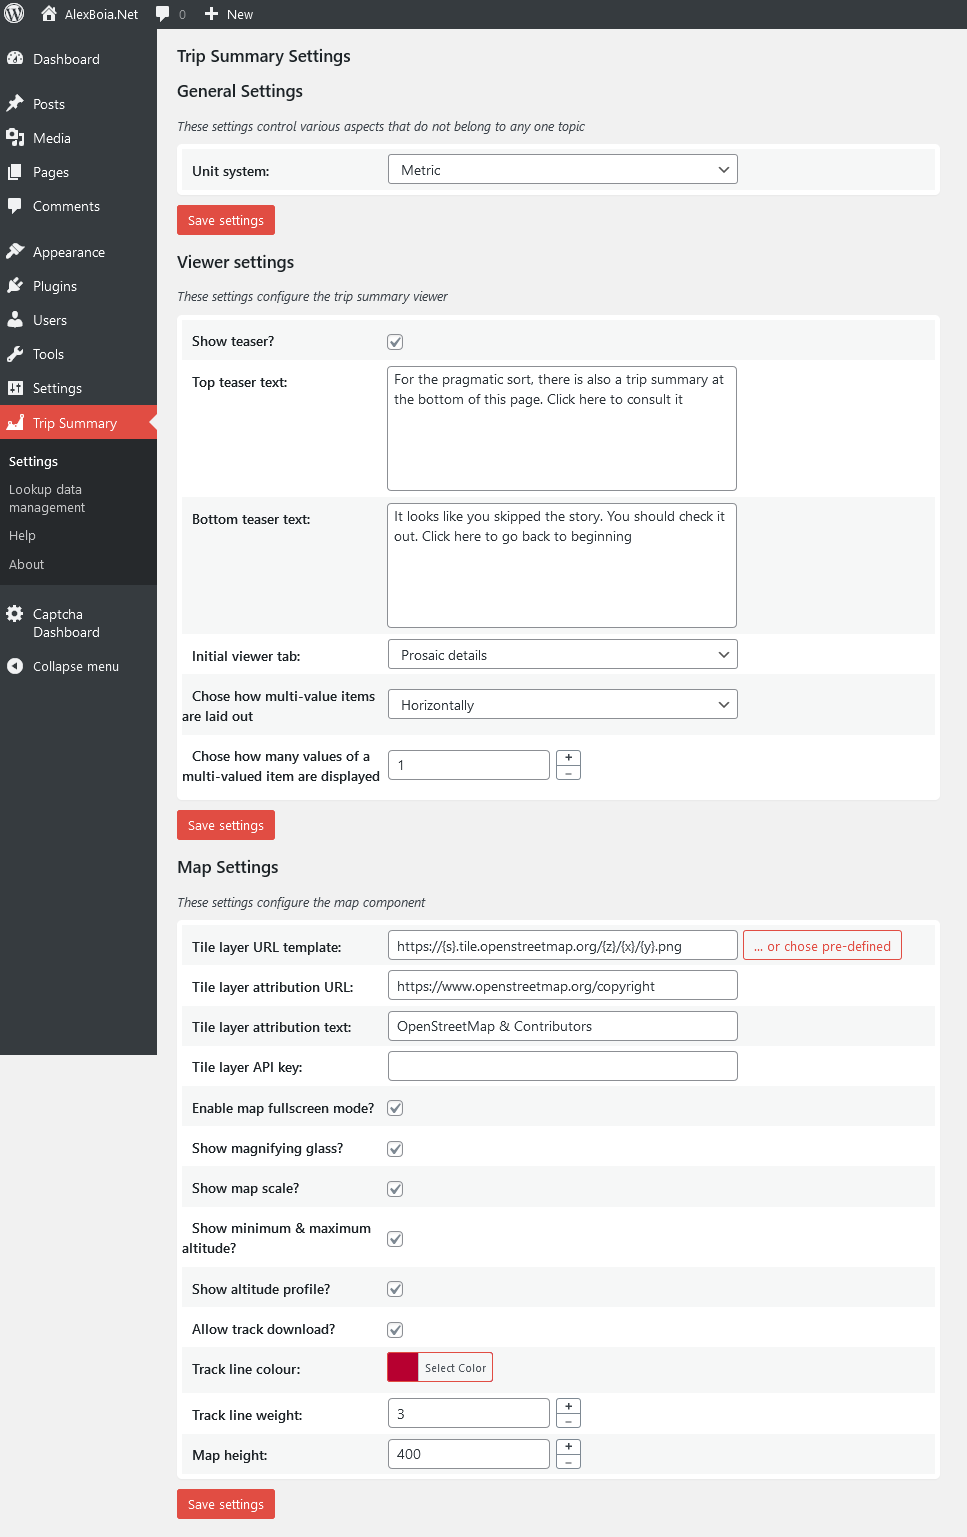
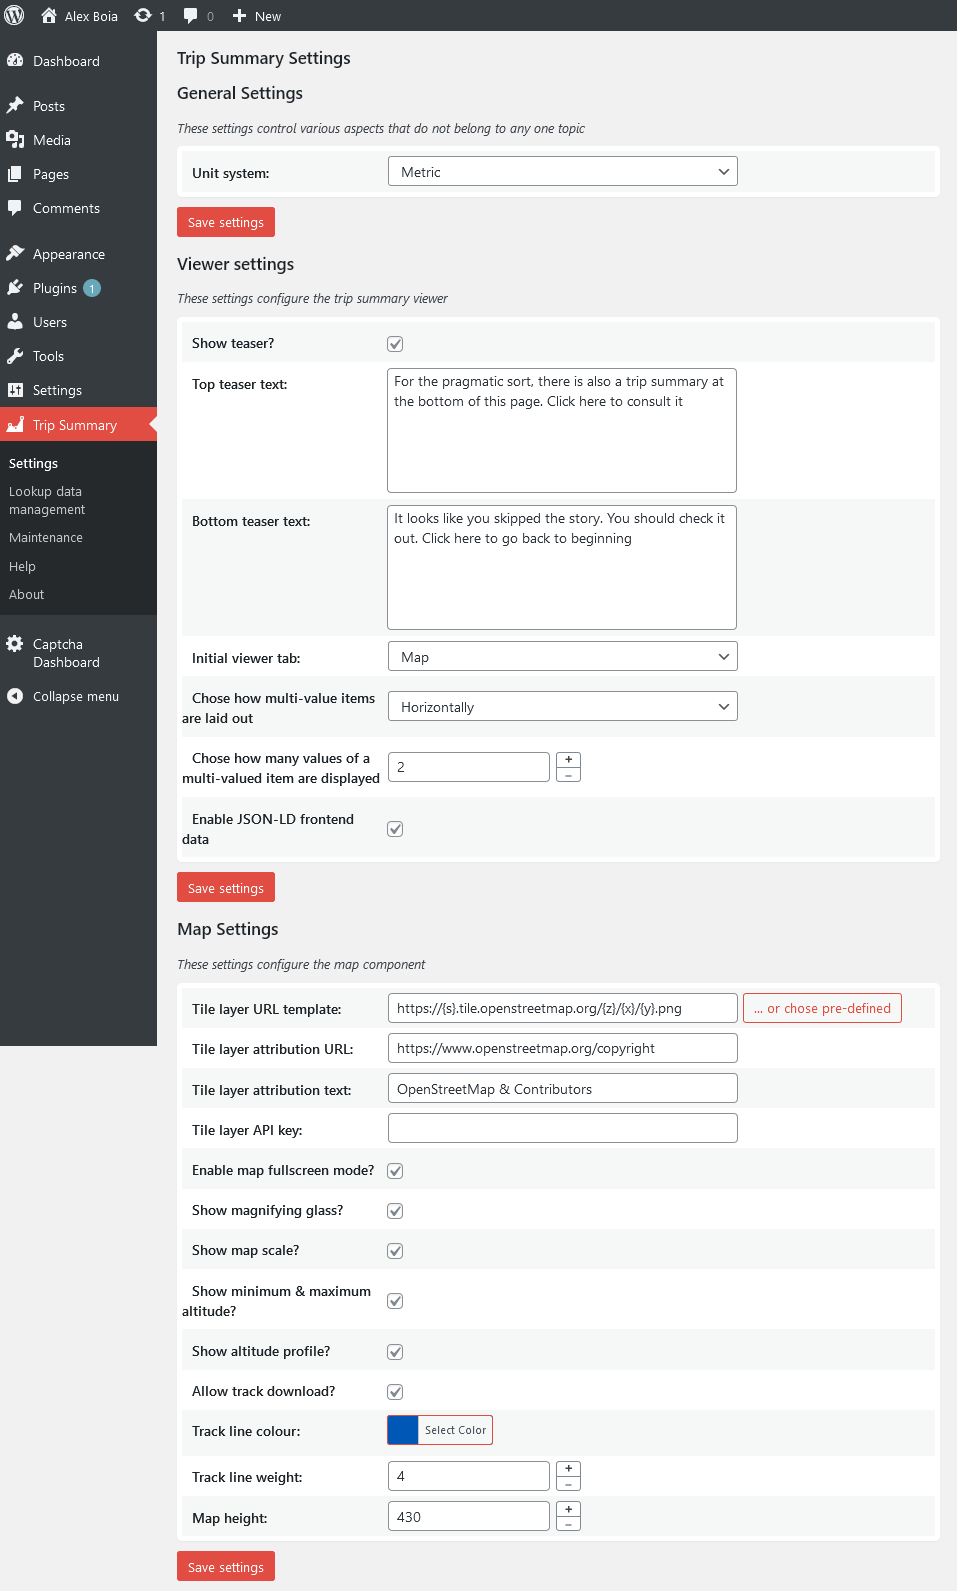
Updated help for JSON-LD setting

diff --git a/views/wpts-jsonld-frontend-data.php b/views/wpts-jsonld-frontend-data.php
@@ -1,3 +1,36 @@
+<?php
+/**
+ * Copyright (c) 2014-2023 Alexandru Boia
+ *
+ * Redistribution and use in source and binary forms, with or without modification, 
+ * are permitted provided that the following conditions are met:
+ * 
+ *	1. Redistributions of source code must retain the above copyright notice, 
+ *		this list of conditions and the following disclaimer.
+ *
+ * 	2. Redistributions in binary form must reproduce the above copyright notice, 
+ *		this list of conditions and the following disclaimer in the documentation 
+ *		and/or other materials provided with the distribution.
+ *
+ *	3. Neither the name of the copyright holder nor the names of its contributors 
+ *		may be used to endorse or promote products derived from this software without 
+ *		specific prior written permission.
+ *
+ * THIS SOFTWARE IS PROVIDED BY THE COPYRIGHT HOLDERS AND CONTRIBUTORS "AS IS" 
+ * AND ANY EXPRESS OR IMPLIED WARRANTIES, INCLUDING, BUT NOT LIMITED TO, 
+ * THE IMPLIED WARRANTIES OF MERCHANTABILITY AND FITNESS FOR A PARTICULAR PURPOSE ARE DISCLAIMED. 
+ * IN NO EVENT SHALL THE COPYRIGHT HOLDER OR CONTRIBUTORS BE LIABLE FOR ANY 
+ * DIRECT, INDIRECT, INCIDENTAL, SPECIAL, EXEMPLARY, OR CONSEQUENTIAL DAMAGES 
+ * (INCLUDING, BUT NOT LIMITED TO, PROCUREMENT OF SUBSTITUTE GOODS OR SERVICES; 
+ * LOSS OF USE, DATA, OR PROFITS; OR BUSINESS INTERRUPTION) 
+ * HOWEVER CAUSED AND ON ANY THEORY OF LIABILITY, WHETHER IN CONTRACT, STRICT LIABILITY, 
+ * OR TORT (INCLUDING NEGLIGENCE OR OTHERWISE) 
+ * ARISING IN ANY WAY OUT OF THE USE OF THIS SOFTWARE, EVEN IF ADVISED 
+ * OF THE POSSIBILITY OF SUCH DAMAGE.
+ */
+	defined('ABP01_LOADED') or die;
+?>
+
 <script type="application/ld+json">
 {
 	"@context": "https://schema.org",

diff --git a/lib/SettingsValuesDataProvider.php b/lib/SettingsValuesDataProvider.php
@@ -1,0 +1,25 @@
+<?php
+class Abp01_SettingsValuesDataProvider {
+	public function getAvailablePredefinedTileLayers() {
+		$allowedPredefinedTileLayersInfos = array();
+		$predefinedTileLayers = Abp01_Settings_PredefinedTileLayer::getPredefinedTileLayers();
+		
+		foreach ($predefinedTileLayers as $id => $predefinedLayer) {
+			$allowedPredefinedTileLayersInfos[$id] = $predefinedLayer->asPlainObject();
+		}
+
+		return $allowedPredefinedTileLayersInfos;
+	} 
+
+	public function getAvailableUnitSystems() {
+		return Abp01_UnitSystem::getAvailableUnitSystems();
+	}
+
+	public function getAvailableViewerTabs() {
+		return Abp01_Viewer::getAvailableTabs();
+	}
+
+	public function getAvailableItemLayouts() {
+		return Abp01_Viewer::getAvailableItemLayouts();
+	}
+}

diff --git a/lib/Settings.php b/lib/Settings.php
@@ -546,7 +546,7 @@ class Abp01_Settings {
 	}
 
 	public function getEnableJsonLdFrontenData() {
-		return $this->_getOption(self::OPT_JSONLD_ENABLED, 'boolean', true);
+		return $this->_getOption(self::OPT_JSONLD_ENABLED, 'boolean', false);
 	}
 
 	public function getMinimumAllowedMapHeight() {

diff --git a/help/src/ro_RO/index.md b/help/src/ro_RO/index.md
@@ -83,9 +83,9 @@ Cu alte cuvinte, vă puteți documenta (doar) aceste trei tipuri de plimbări.
 <div class="abp01-help-section" markdown="1">
 Pentru a rula acest modul, aveți nevoie de următoarele:
 
-- PHP versiunea 5.6.2 sau mai recenta;
+- PHP versiunea 7.4.0 sau mai recenta;
 - MySQL versiunea 5.7 sau mai recenta (cu suport pentru date GIS);
-- WordPress 5.0 sau mai recenta;
+- WordPress 6.0.0 sau mai recenta;
 - extensia PHP libxml;
 - extensia PHP SimpleXml;
 - extensia PHP mysqli;
@@ -301,6 +301,16 @@ Textul teaser-ului afișat imediat sub caseta de sumar. Există deja o valoare p
 
 Acest câmp permite controlarea filei încărcate inițial în viewer-ul din fron-end atunci când utilizatorul deschide pagina unui post.
 Valoarea implicită este: Hartă & Track GPS.
+
+#### Alege câte valori sunt afișate pentru itemii cu mai multe valori
+
+Acest câmp permite stabilirea numărului de valori care sunt afișate pentru câmpurile multi-valoare.
+Dacă un astfel de câmp are mai multe valori decât numărul stabilit aici, atunci valorile rămase sunt ascunse și un buton este afișat pentru arătarea acestor valori.
+
+#### Insearază date JSON-LD în front-end
+
+Dacă această opțiune este activată, plug-in-ul inserează o structură de date JSON-LD în pagina de detalii a post-ului, 
+dacă acelui post i-a fost atașat un track. 
 
 #### Șablonul URL-ului sursei de tile-uri de hartă
 

diff --git a/help/src/fr_FR/index.md b/help/src/fr_FR/index.md
@@ -89,9 +89,9 @@ Selon les différentes fonctions exercées par les zones du module, nous pouvons
 <div class="abp01-help-section" markdown="1">
 Pour exécuter ce module, vous avez besoin des éléments suivants:
 
-- PHP version 7.0.2 ou ultérieure;
+- PHP version 7.4.0 ou ultérieure;
 - MySQL version 5.7 ou ultérieure (avec prise en charge des données SIG);
-- WordPress 5.3.0 ou version ultérieure;
+- WordPress 6.0.0 ou version ultérieure;
 - Extension PHP libxml;
 - Extension PHP SimpleXml;
 - extension PHP mysqli;
@@ -319,6 +319,11 @@ Ce champ permet de spécifier comment plusieurs valeurs d'un même élément son
 
 Ce champ permet de définir le nombre de valeurs affichées pour les éléments qui ont plusieurs valeurs. 
 Si un élément a plus de valeurs que ce qui est défini dans ce champ, ils sont masqués et un bouton `(afficher)` s'affiche.
+
+#### Activer les données frontales JSON-LD
+
+S'il est activé, le plug-in insère des données JSON-LD structurées dans la page de détails de la publication et de la page,
+s'il y a des données de suivi attachées à ce message ou à cette page.
 
 #### Modèle d'URL source de tuile de carte
 

diff --git a/help/src/en_US/index.md b/help/src/en_US/index.md
@@ -89,9 +89,9 @@ Depending on the various functions performed by various plug-in components, we c
 <div class="abp01-help-section" markdown="1">
 To run this module, the following technical requirements must be met:
 
-- PHP version 7.0.2 or greater;
+- PHP version 7.4.0 or greater;
 - MySQL version 5.7 or greater (with spatial support);
-- WordPress 5.3.0;
+- WordPress 6.0.0;
 - libxml extension;
 - SimpleXml extension;
 - mysqli extension;
@@ -306,6 +306,11 @@ This field allows specifying how multiple values of the same item are laid out i
 
 This field allows setting how many values are displayed for items that have multiple values. 
 If an item has more values than the what is set in this field, then they are hidden and a `(show)` button is displayed.
+
+#### Enable JSON-LD frontend data
+
+If enabled, the plug-in inserts structured JSON-LD data in the post and page details page, 
+if there is track data attached to that post or page.
 
 #### Map Tile URL Template
 
